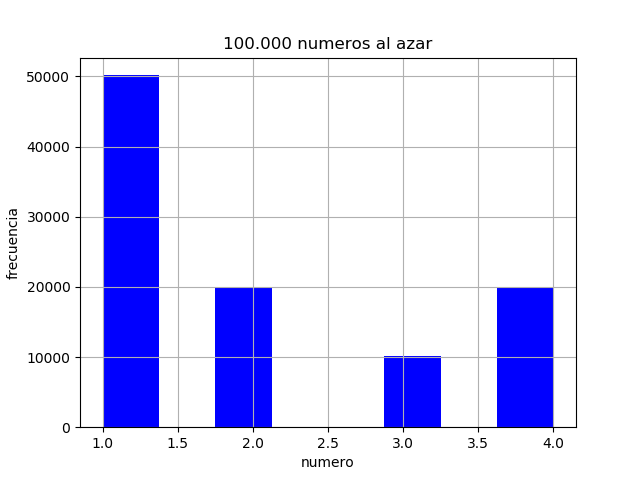
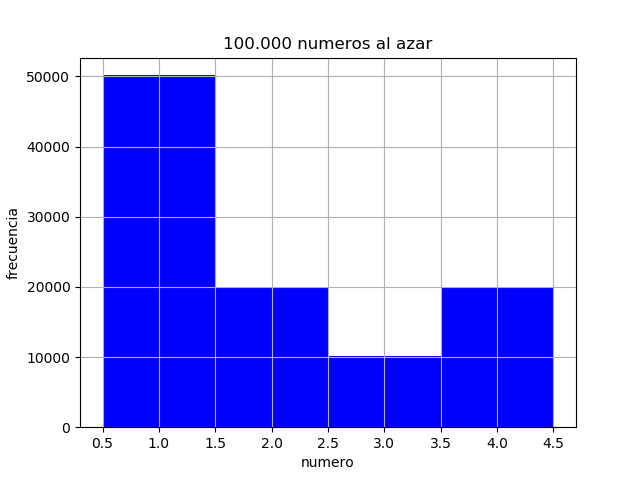
Refactoring y ejercicios 6 y 8

Changed region(s): [[0.375, 0.5938, 0.8125, 0.9375], [0.2188, 0.1562, 0.3438, 0.9375], [0.125, 0.9062, 0.1875, 0.9375]]

diff --git a/src/GLC.py b/src/GLC.py
@@ -1,29 +1,69 @@
+from numpy import log
 
 
 class  GeneradorCongruencialLineal(object) :
 	
+
 	def __init__(self, multiplier, increment, module):
 		self.multiplier = multiplier
 		self.increment = increment
 		self.module = module
+		self.seed =None
 
 	def __init__ (self):
 		self.multiplier = 1013904223
 		self.increment = 1664525
 		self.module = 2**32
+		self.seed=None
 
-	def generate_random(self,seed):
-		return (self.multiplier*seed+self.increment)%self.module
+	def set_seed(self,seed):
+		self.seed=seed
+
+	def set_seed_padron(self):
+		self.seed=int(96604+79478+84906 /3)
+
+	def has_seed(self):
+		return (self.seed!=None)
+
+	def generate_random(self):
+		if(not self.has_seed()):
+			raise Exception('Must set seed')
+		new_number=(self.multiplier*self.seed+self.increment)%self.module
+		self.seed=new_number #guarda la semilla
+		return new_number
 
 	def generate_random_padron(self):
-		padrones=int(96604+79478+84906 /3)
-		return (self.multiplier*padrones+self.increment)%self.module
+		self.set_seed_padron()
+		return self.generate_random()
+
+	def generate_random_uniform(self):
+		new_number=self.generate_random()
+		return (new_number)/self.module
+
+
+	def generate_random_bernoulli(self,p):
+		new_number=self.generate_random_uniform()
+		if(new_number<p):
+			return 0
+		else:
+			return 1
+
+	def generate_random_geometric(self,p):
+		new_number=self.generate_random_bernoulli(p)
+		k=1
+		while (new_number!=0):
+			new_number=self.generate_random_bernoulli(p)
+			k+=1
+		return k
+
+	
 
 	def _generate_n_random_numbers(self,seed,n,number_list):
+		self.set_seed(seed)
+		print (self.seed)
 		for x in range(0,n):
-			new_number= (self.multiplier*seed+self.increment)%self.module
+			new_number= self.generate_random()
 			number_list.append(new_number)
-			seed=new_number
 		return number_list
 
 	def generate_n_random_numbers(self,seed,n):
@@ -38,19 +78,38 @@ class  GeneradorCongruencialLineal(object) :
 		return self._generate_n_random_numbers(padrones,n,number_list)
 	
 	def _generate_n_uniform_random_numbers(self,seed,n,number_list):
+		self.set_seed(seed)
 		for x in range(0,n):
-			new_number= self.generate_random(seed)
-			number_list.append(new_number/self.module)
-			seed=new_number
+			number_list.append( self.generate_random_uniform())
 		return number_list
 
 	def generate_n_uniform_random_numbers(self,seed,n):
 		number_list=[]
 		return self._generate_n_uniform_random_numbers(seed,n,number_list)
 
-	
-
 	def generate_n_uniform_random_numbers_padron(self,n):
 		padrones=int(96604+79478+84906 /3)
 		number_list=[]
 		return self._generate_n_uniform_random_numbers(padrones,n,number_list)
+	
+	def generate_n_exp_random_numbers(self,seed,n,media):
+		l_random_numbers= self.generate_n_uniform_random_numbers(seed,n)
+		list_exp=[ log(1-x)/(-1/media) for x in l_random_numbers]
+		return list_exp
+
+	def generate_n_exp_random_numbers_padron(self,n,media):
+		l_random_numbers= self.generate_n_uniform_random_numbers_padron(n)
+		list_exp=[ log(1-x)/(-1/media) for x in l_random_numbers]
+		return list_exp
+
+
+	def generate_n_geometic_random_numbers(self,seed,n,p):
+		self.set_seed(seed)
+		list_geo=[ self.generate_random_geometric(p) for x in range(n)]
+		return list_geo
+
+	def generate_n_geometrix_random_numbers_padron(self,n,p):
+		self.set_seed_padron()
+		list_geo=[ self.generate_random_geometric(p) for x in range(n)]
+		return list_geo
+

diff --git a/src/ej2/ej2.py b/src/ej2/ej2.py
@@ -2,13 +2,15 @@ import sys
 sys.path.append('../')
 from GLC import GeneradorCongruencialLineal
 from Histogram import Histogram
-from numpy import log
 from StaticalHelper import StaticalHelper
-glc = GeneradorCongruencialLineal()
-l_random_numbers= glc.generate_n_uniform_random_numbers_padron(100000)
+
+
+
 media=15
-list_exp=[ log(1-x)/(-1/media) for x in l_random_numbers]
-x_range=[]
+n=100000
+glc = GeneradorCongruencialLineal()
+
+list_exp=glc.generate_n_exp_random_numbers_padron(n,media)
 n,bins,batches=Histogram.plot_without_range(list_exp,100,"numero","frecuencia","100.000 numeros al azar","./ej2.png")
 # print ("Histograma 1  ")
 # for x in range(len(n)):
@@ -31,3 +33,5 @@ print ("Moda de la muestra: ")
 print (mode)
 print ("Moda teorica:")
 print (0)
+
+

diff --git a/src/ej5/ej5.py b/src/ej5/ej5.py
@@ -5,6 +5,7 @@ from Histogram import Histogram
 from numpy import log
 from StaticalHelper import StaticalHelper
 import math
+
 def getValueBack(number):
 	if(number<0.5):
 		return 1
@@ -17,4 +18,5 @@ def getValueBack(number):
 glc = GeneradorCongruencialLineal()
 l_random_numbers= glc.generate_n_uniform_random_numbers_padron(100000)
 l_custom_distribution_numbers=[ getValueBack(number) for number in l_random_numbers]
-n,bins,batches=Histogram.plot_without_range(l_custom_distribution_numbers,8,"numero","frecuencia","100.000 numeros al azar","./ej5.png")
+hist_bins= [i+0.5 for i in range(0,5)]
+n,bins,batches=Histogram.plot_without_range(l_custom_distribution_numbers,hist_bins,"numero","frecuencia","100.000 numeros al azar","./ej5.png")

diff --git a/src/ej8/ej8.py b/src/ej8/ej8.py
@@ -1,0 +1,19 @@
+import sys
+sys.path.append('../')
+from GLC import GeneradorCongruencialLineal
+from Histogram import Histogram
+from StaticalHelper import StaticalHelper
+from scipy.stats import chisquare
+
+
+p=0.5
+size=10000
+glc = GeneradorCongruencialLineal()
+
+list_exp=glc.generate_n_geometrix_random_numbers_padron(size,p)
+hist_bins= [i+0.5 for i in range(0,20)]
+n,bins,batches=Histogram.plot_without_range(list_exp,hist_bins,"numero","frecuencia","100.00 numeros al azar","./ej6.png")
+print ("observed values",n)
+expected_value=[ ((1-p)**(i-1))*p*size for i in range(1,20)]
+print ("expected values",expected_value)
+print(chisquare(n,f_exp=expected_value))

diff --git a/src/ej6/ej6.py b/src/ej6/ej6.py
@@ -1,0 +1,15 @@
+import sys
+sys.path.append('../')
+from GLC import GeneradorCongruencialLineal
+from Histogram import Histogram
+from StaticalHelper import StaticalHelper
+from scipy.stats import chisquare
+
+
+p=0.5
+size=10000
+glc = GeneradorCongruencialLineal()
+
+list_exp=glc.generate_n_geometrix_random_numbers_padron(size,p)
+hist_bins= [i+0.5 for i in range(0,20)]
+n,bins,batches=Histogram.plot_without_range(list_exp,hist_bins,"numero","frecuencia","100.00 numeros al azar","./ej6.png")
